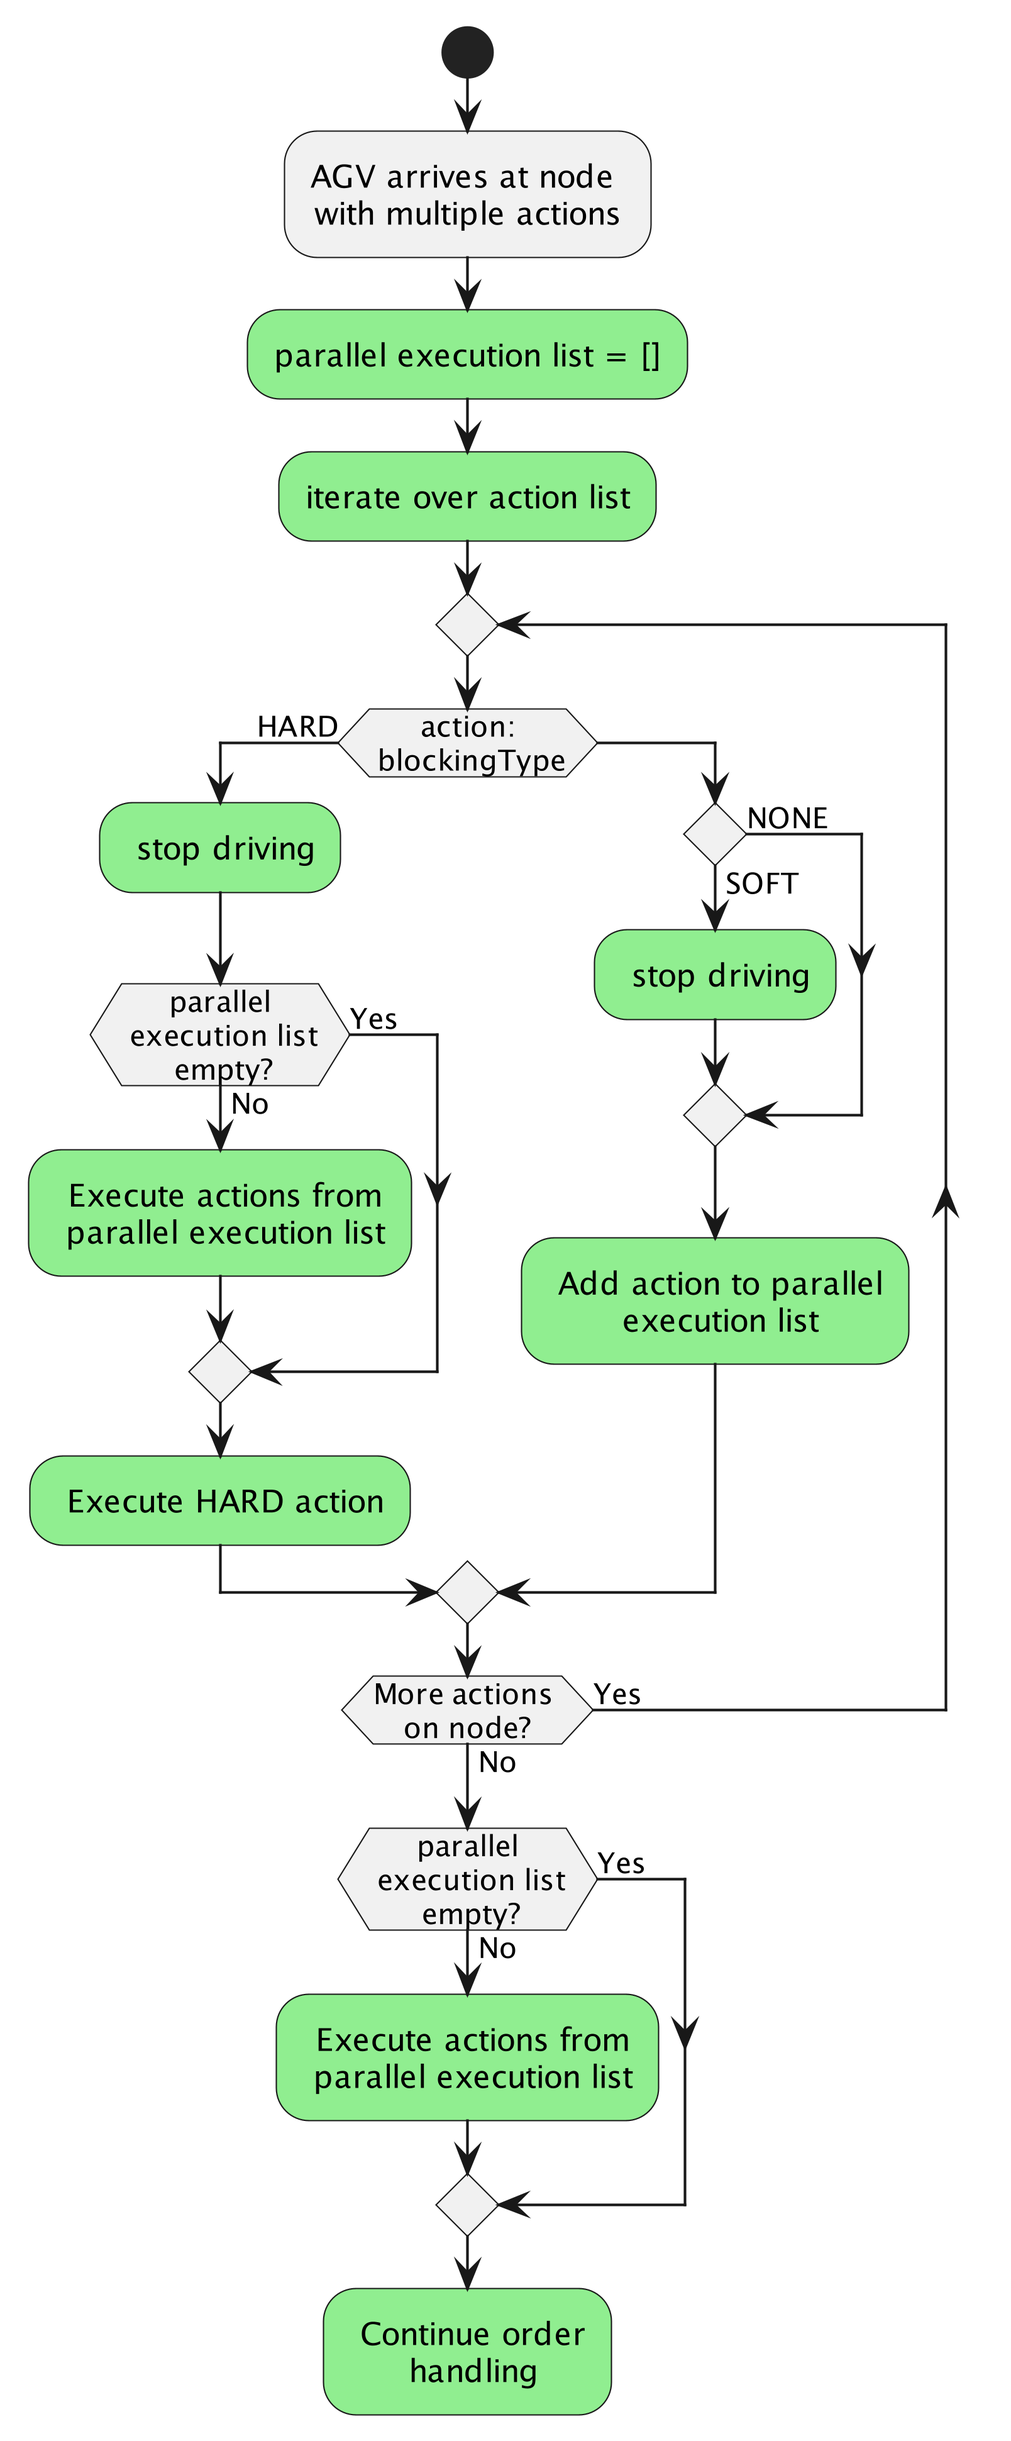
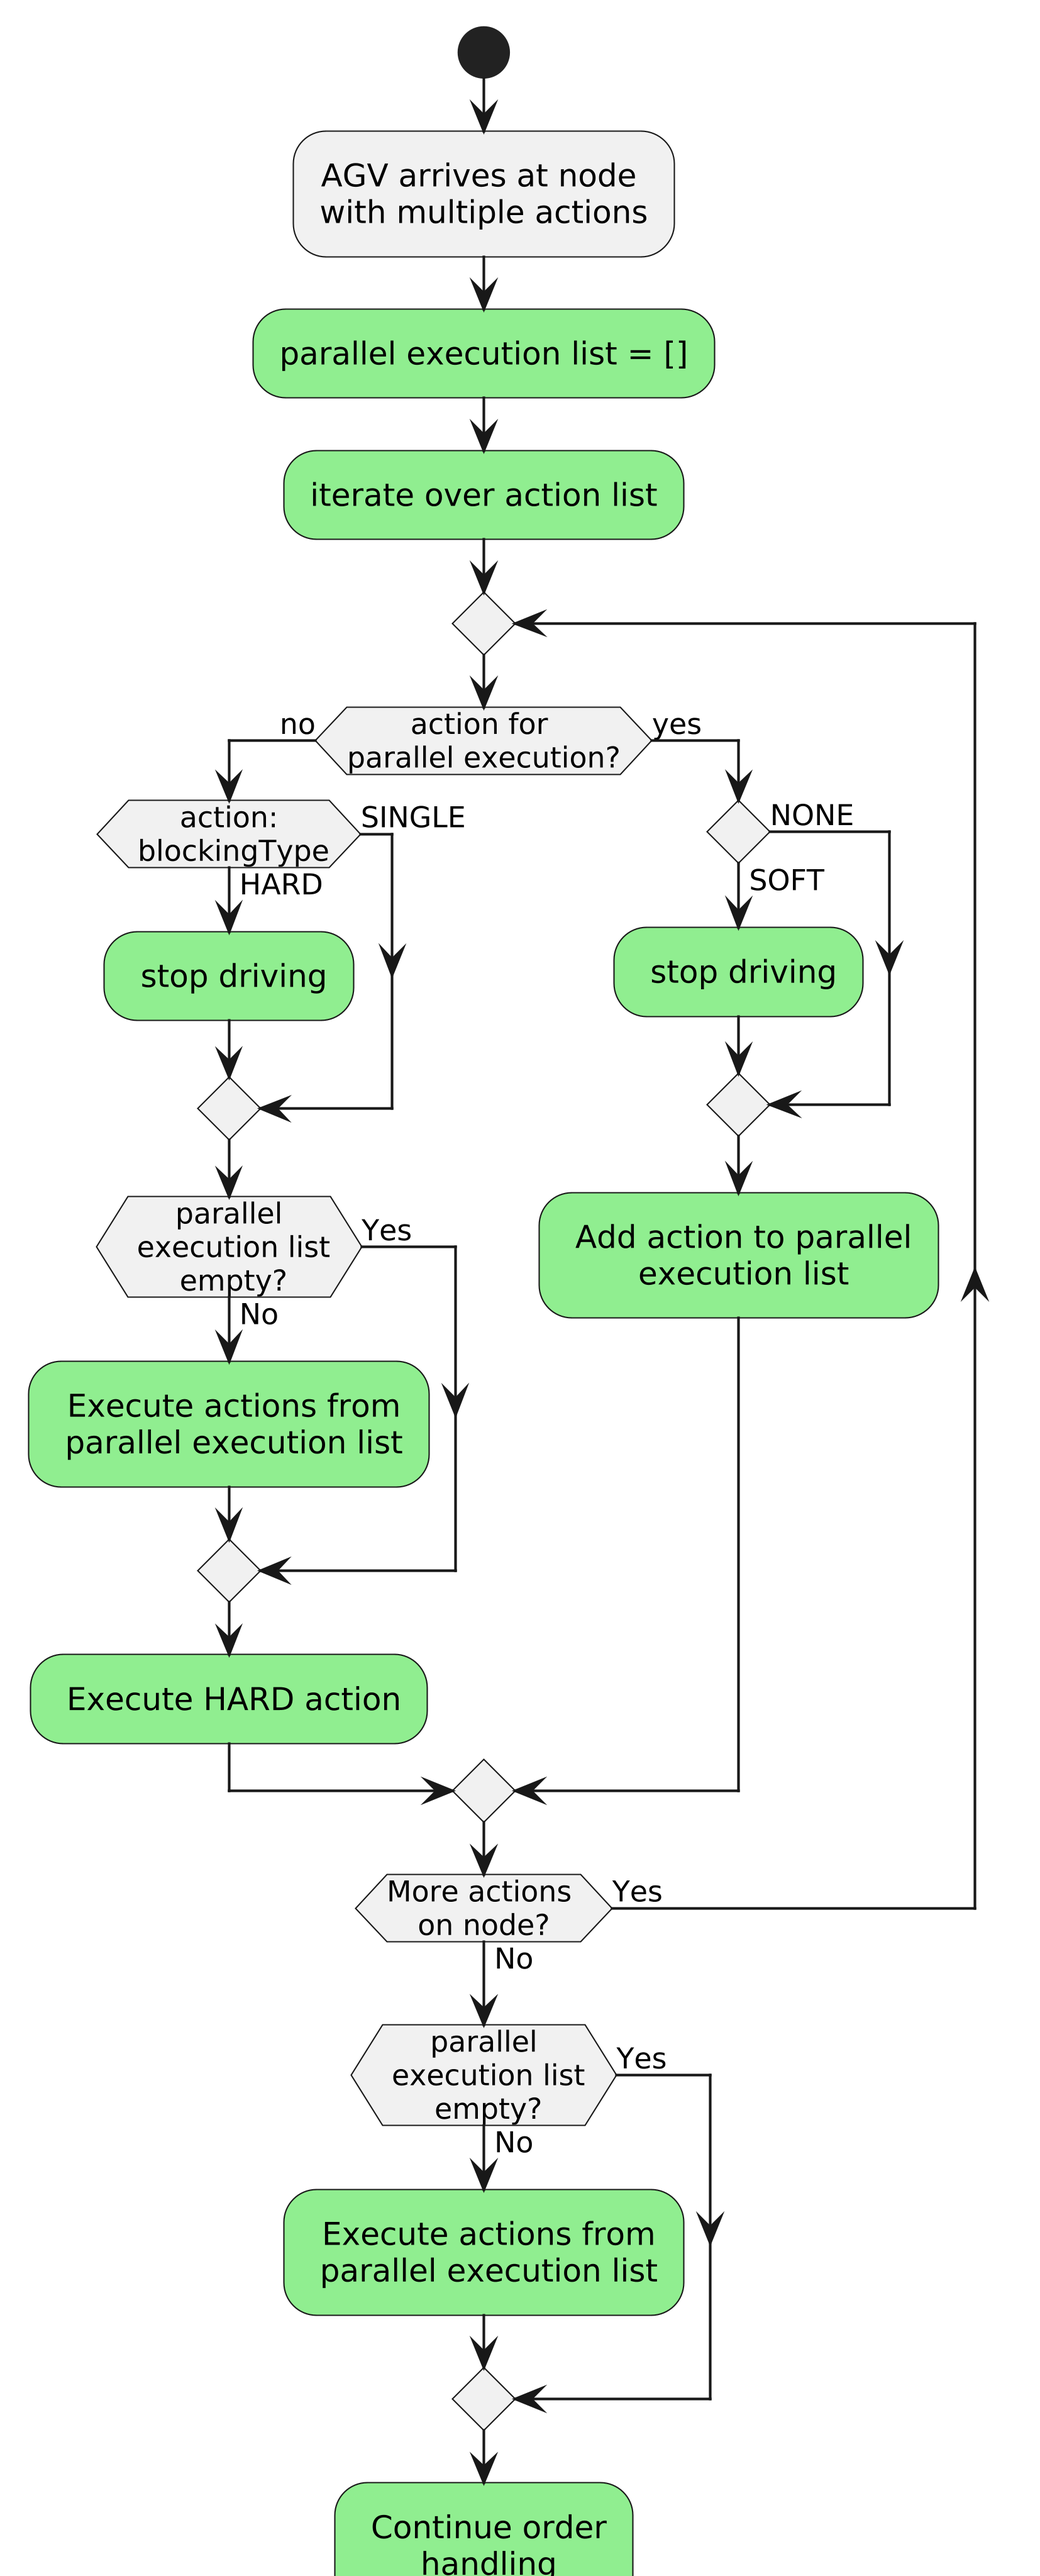
Added blockingType SINGLE

Changed region(s): [[0.0, 0.0, 0.9017, 1.0], [0.9328, 0.2494, 0.9639, 0.7169], [0.4975, 0.6234, 0.5286, 0.6546]]

diff --git a/assets/handling_multiple_actions_UML.md b/assets/handling_multiple_actions_UML.md
@@ -9,14 +9,17 @@ start
 #lightgreen:parallel execution list = [];
 #lightgreen:iterate over action list;
 repeat
-    if (action:\n blockingType) then (HARD)
+    if (action for \nparallel execution?) then (no)
+        if (action:\n blockingType) then (HARD)
         #lightgreen: stop driving;
+        else (SINGLE)
+        endif
         if (parallel\n execution list\n empty?) then(Yes)
         else(No)
         #lightgreen: Execute actions from\n parallel execution list;
         endif
         #lightgreen: Execute HARD action;
-    else
+    else (yes)
         if () then(SOFT)
         #lightgreen: stop driving;
         else(NONE)

diff --git a/VDA5050_EN.md b/VDA5050_EN.md
@@ -1523,6 +1523,7 @@ blockingType | Description
 ---|---
 NONE | Action can be executed in parallel with other actions and while the vehicle is driving.
 SOFT | Action can be executed in parallel with other actions. Vehicle shall not drive.
+SINGLE | Action shall not be executed in parallel with other actions. Vehicle can drive.
 HARD | Action shall not be executed in parallel with other actions. Vehicle shall not drive.
 
 >Table 3 Action blocking types
